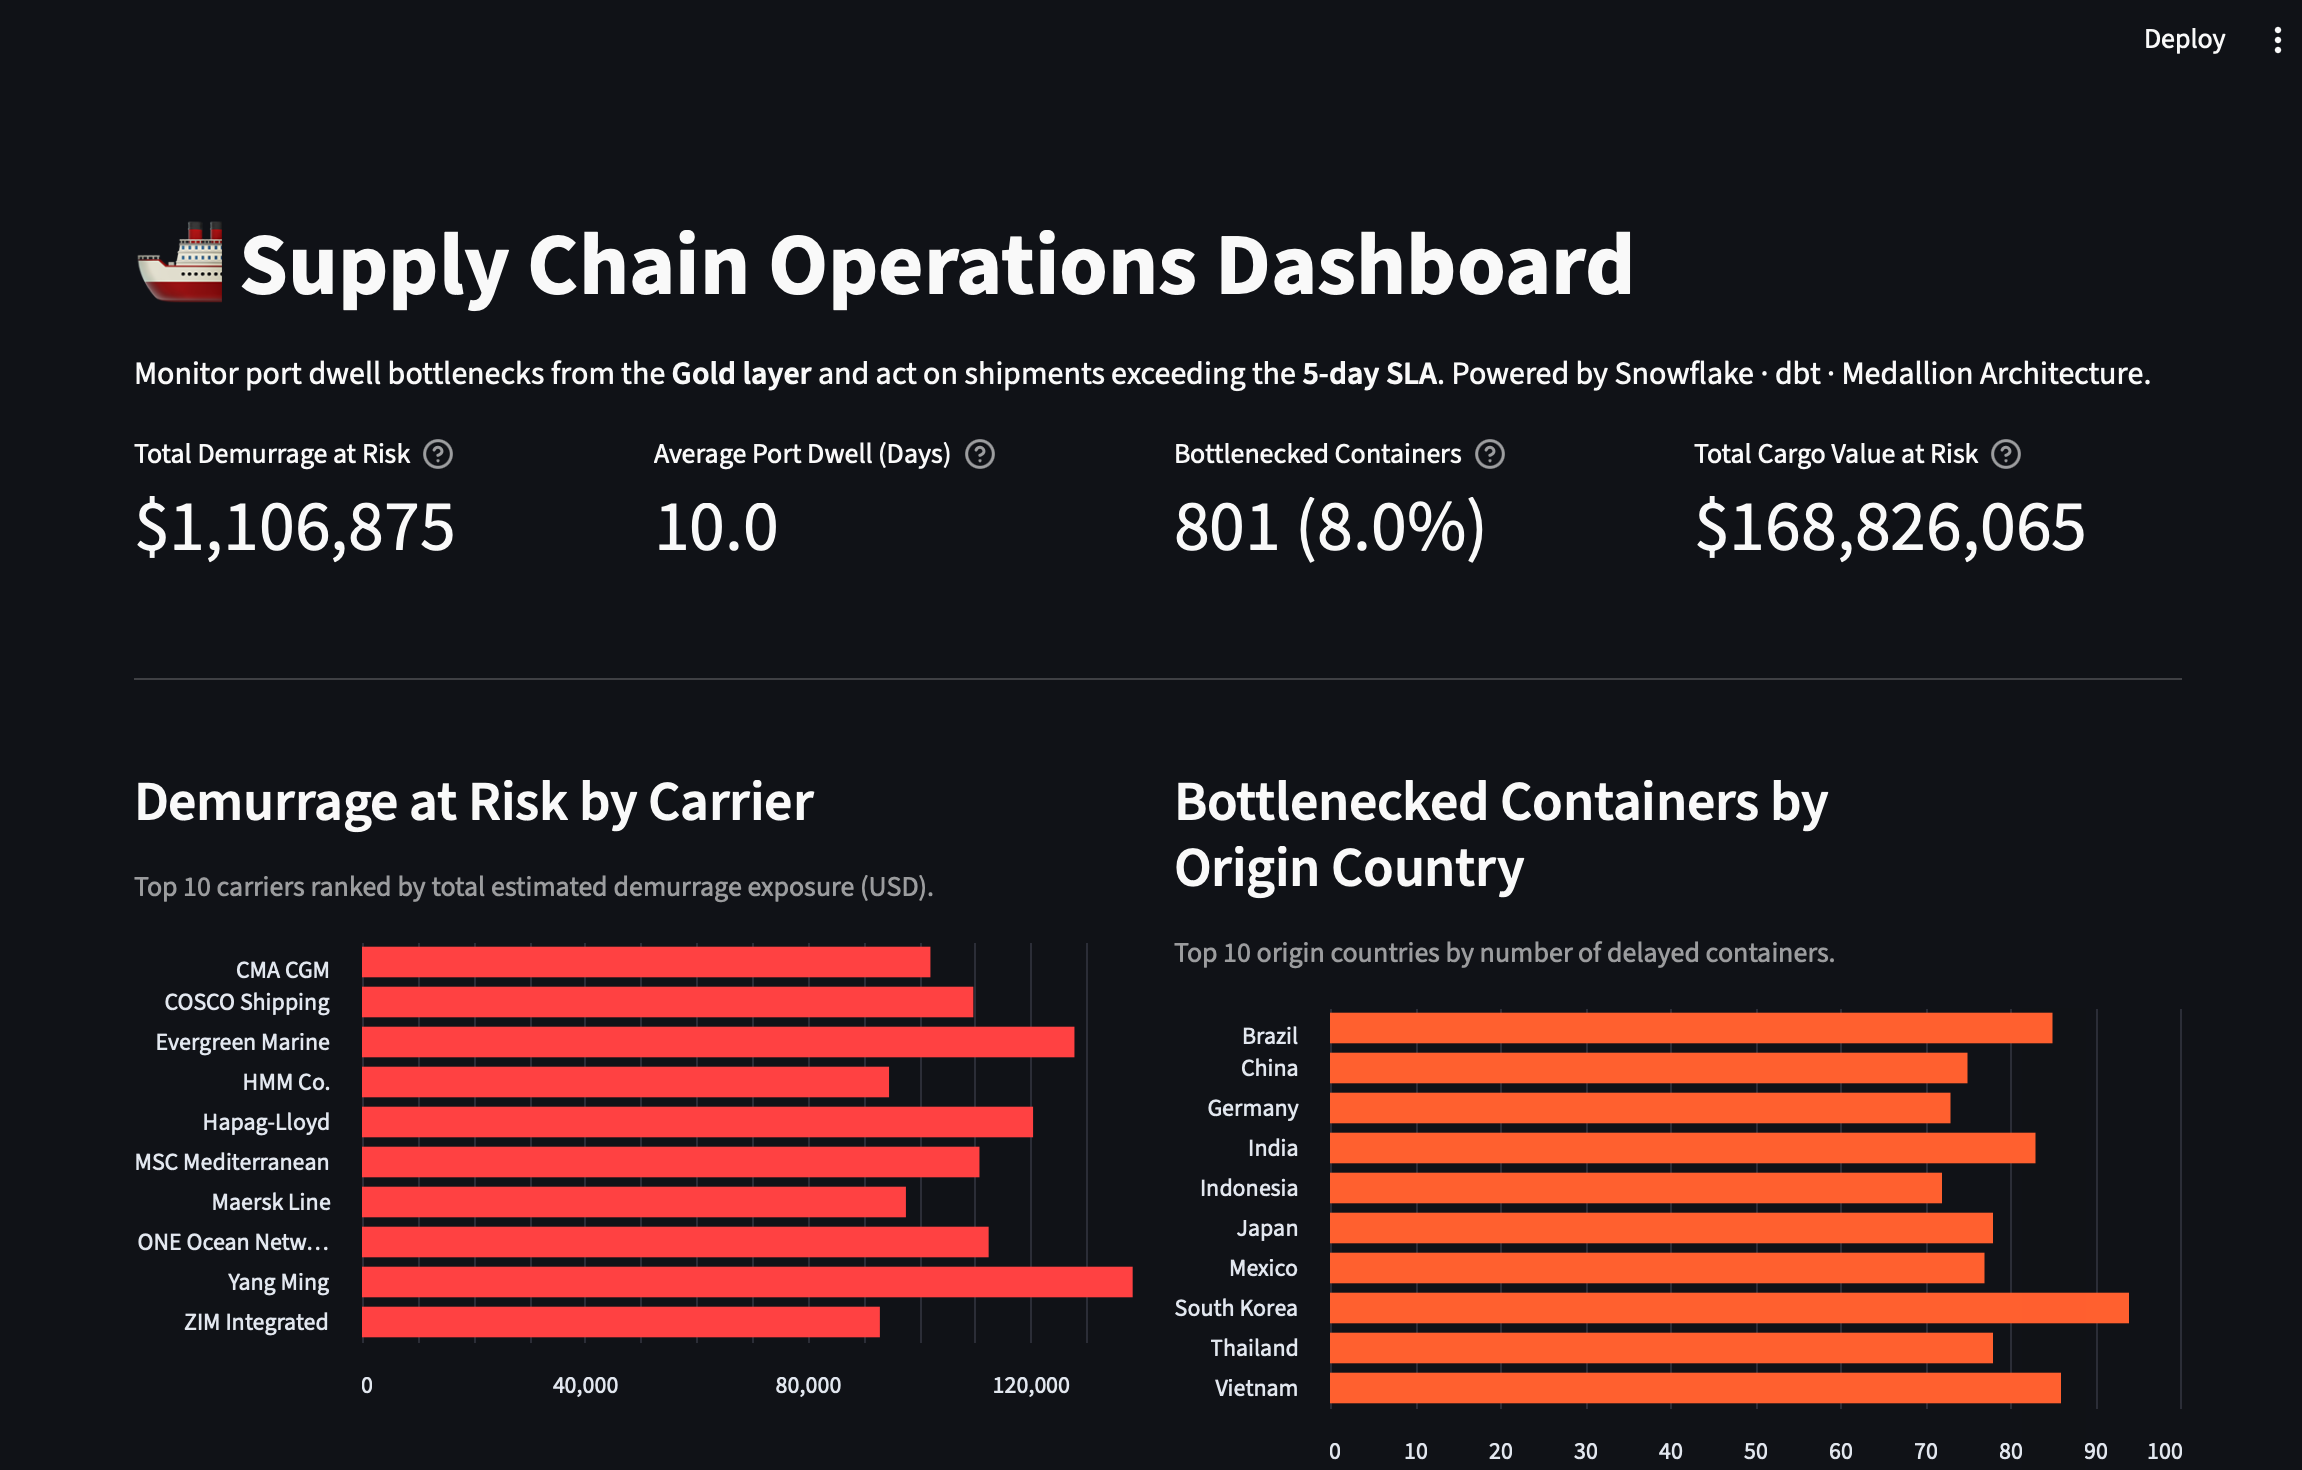
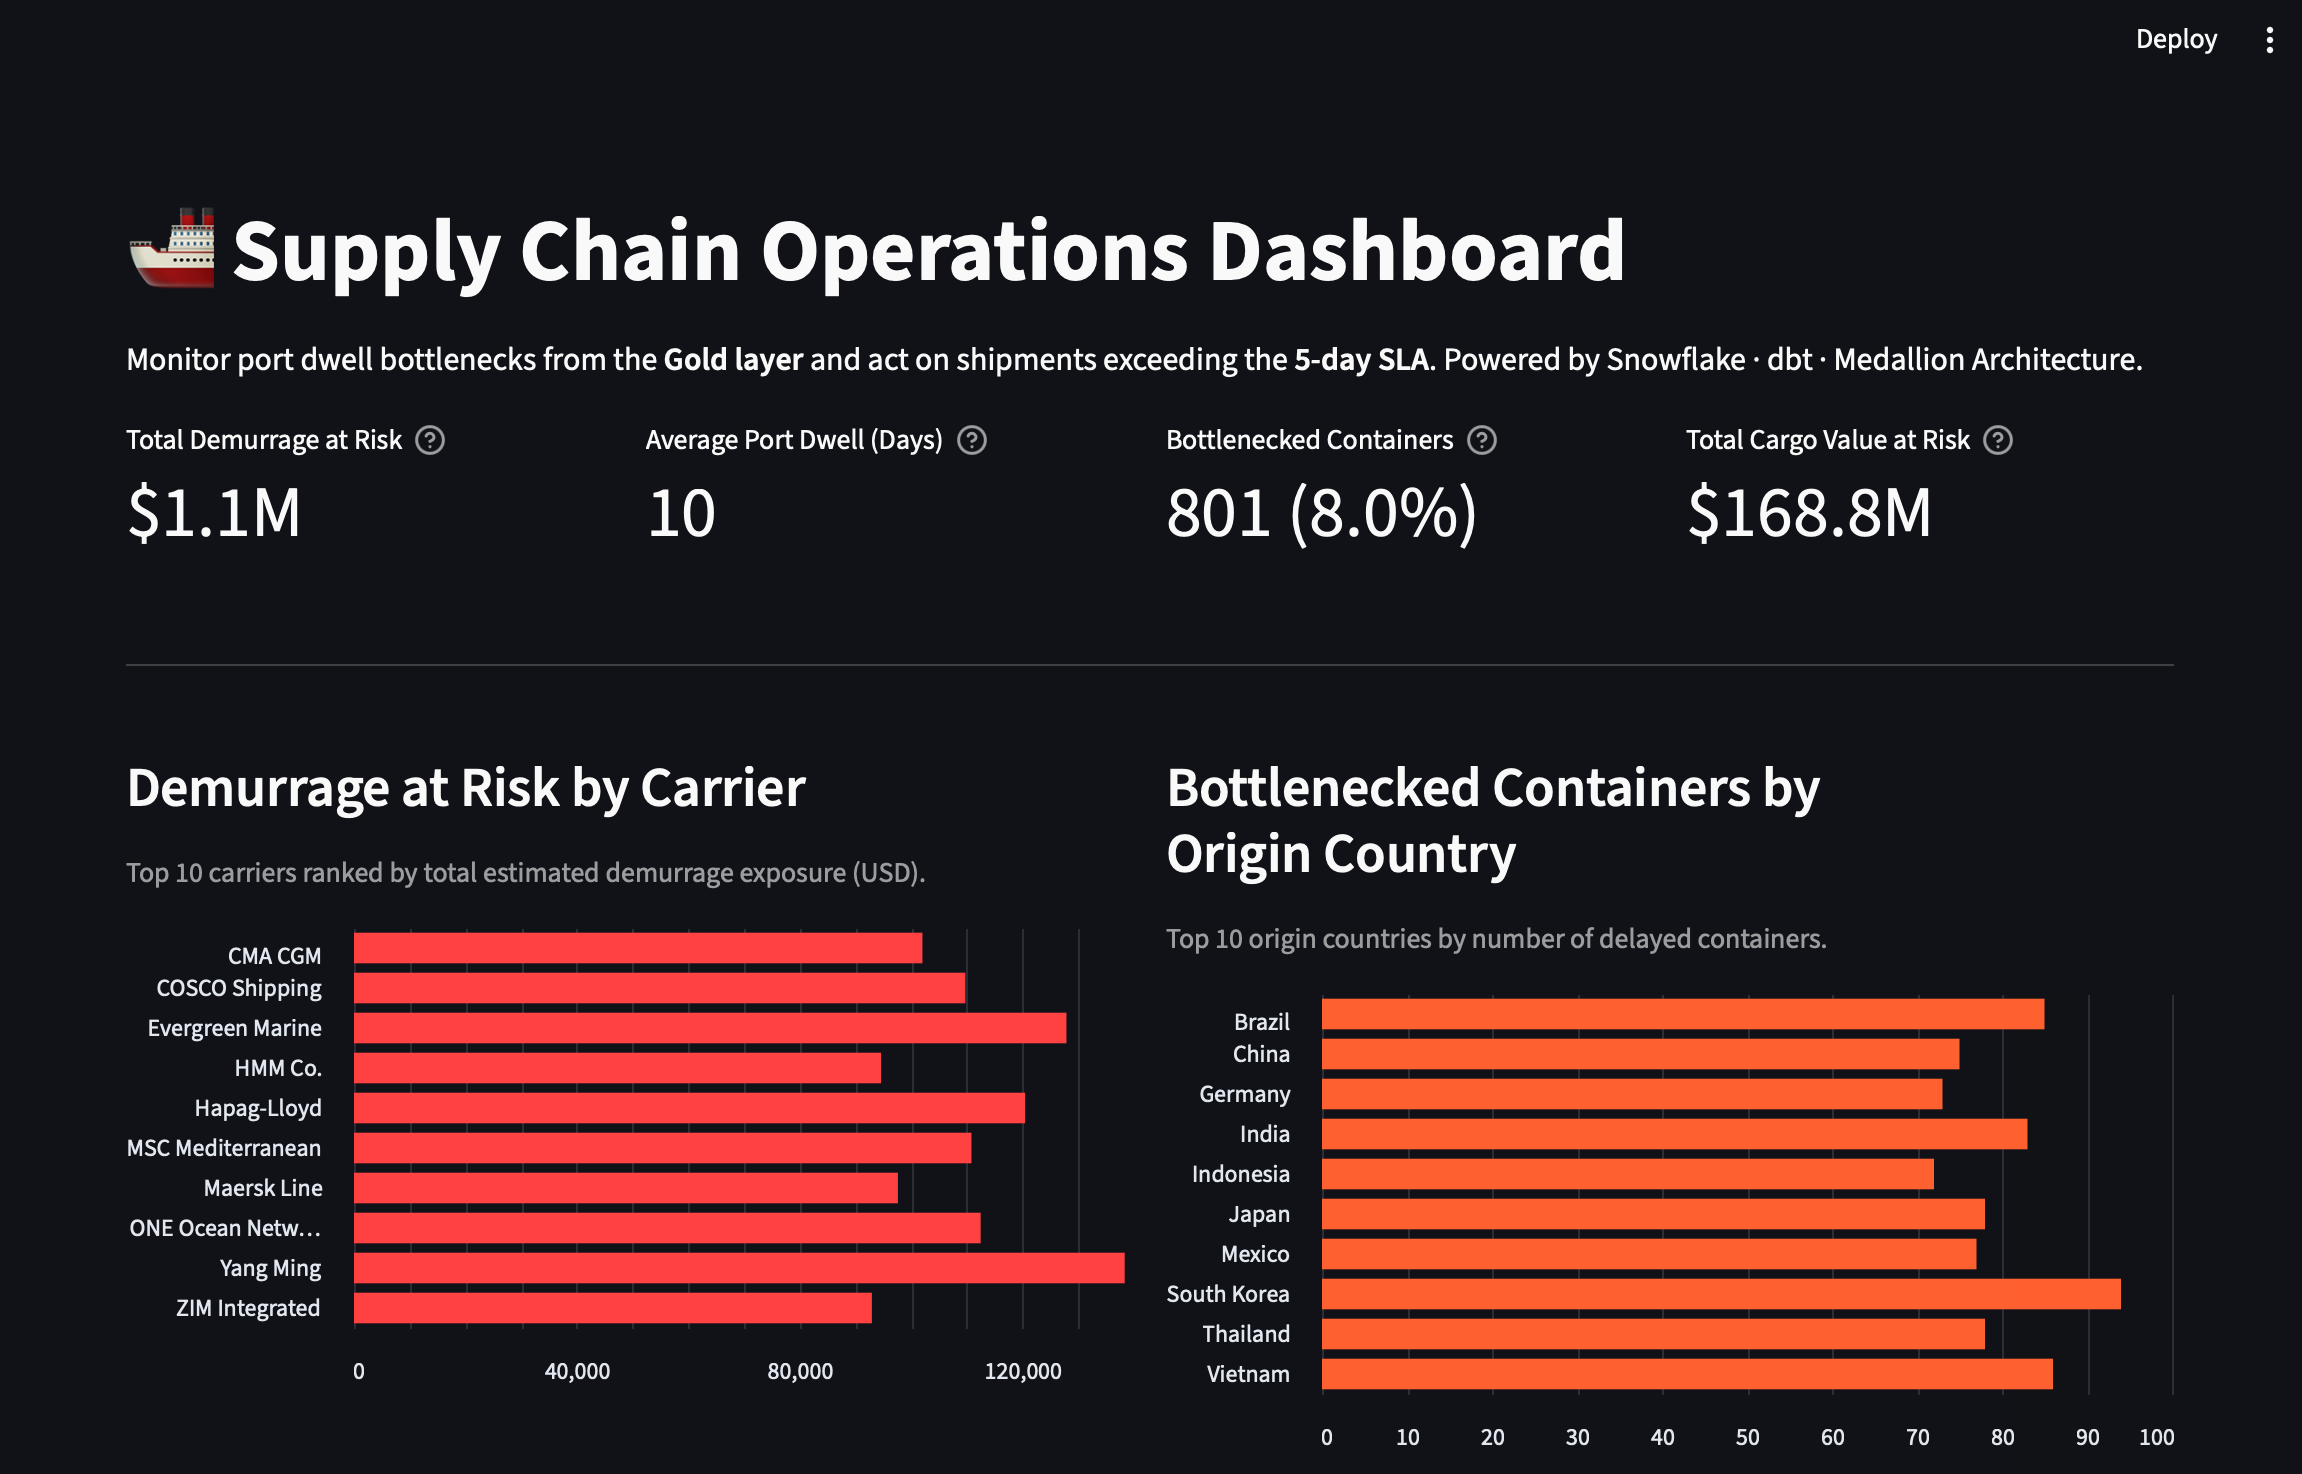
fix: compact M format for metrics and updated dashboard screenshot

diff --git a/app.py b/app.py
@@ -168,7 +168,11 @@ def enrich_action_list(df: pd.DataFrame, daily_demurrage_rate: float) -> pd.Data
     )
 
 
-def format_currency(value: float) -> str:
+def format_currency(value: float, compact: bool = False) -> str:
+    if compact and value >= 1_000_000:
+        return f"${value / 1_000_000:.1f}M"
+    if compact and value >= 1_000:
+        return f"${value / 1_000:.1f}K"
     return f"${value:,.0f}"
 
 
@@ -182,7 +186,7 @@ def render_metric_cards(df: pd.DataFrame) -> None:
     col1, col2, col3, col4 = st.columns(4)
     col1.metric(
         label="Total Demurrage at Risk",
-        value=format_currency(total_demurrage),
+        value=format_currency(total_demurrage, compact=True),
         help="Estimated demurrage exposure for days exceeding the 5-day SLA.",
     )
     col2.metric(
@@ -197,7 +201,7 @@ def render_metric_cards(df: pd.DataFrame) -> None:
     )
     col4.metric(
         label="Total Cargo Value at Risk",
-        value=format_currency(total_cargo_value),
+        value=format_currency(total_cargo_value, compact=True),
         help="Estimated total cargo value for all bottlenecked containers.",
     )
 
@@ -248,12 +252,6 @@ def render_origin_chart(df: pd.DataFrame) -> None:
         use_container_width=True,
         color="#FF6B35",
         horizontal=True,
-    )
-
-    st.bar_chart(
-        origin_summary.set_index("origin_country")["container_count"],
-        use_container_width=True,
-        color="#FF6B35",
     )
 
 